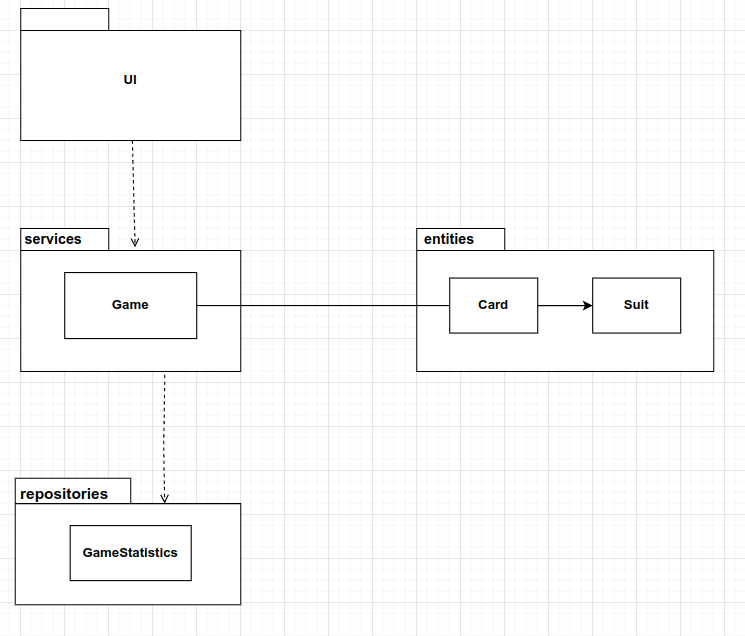
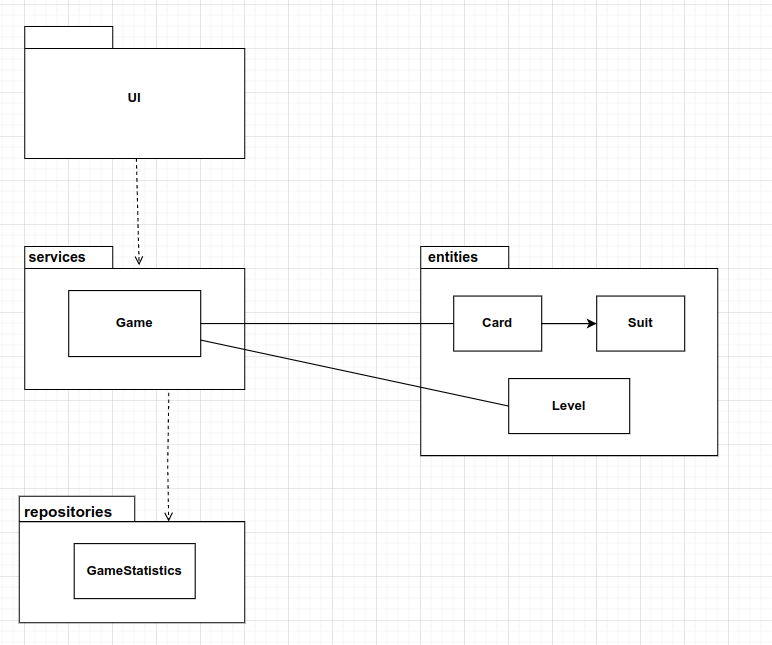
lisäys

diff --git a/src/tests/repository_test.py b/src/tests/repository_test.py
@@ -1,7 +1,4 @@
 import unittest
-from services.game import Game
-from entities.card import Card
-from entities.card_suit import Suit
 from entities.game_level import Level
 from repositories.game_statitics_repository import GameStatitics
 from database_initialize import initialize_database
